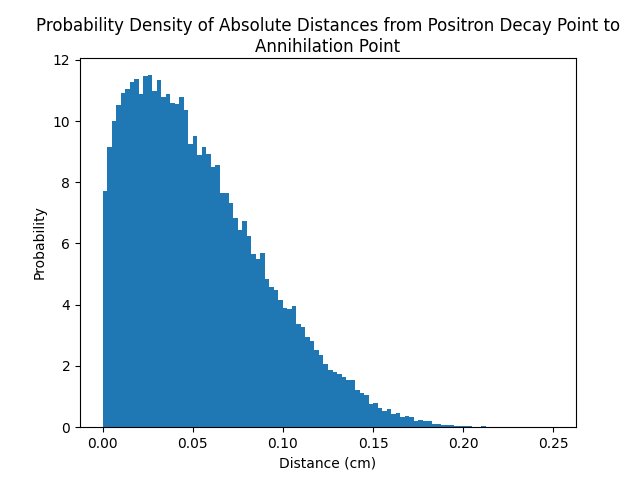
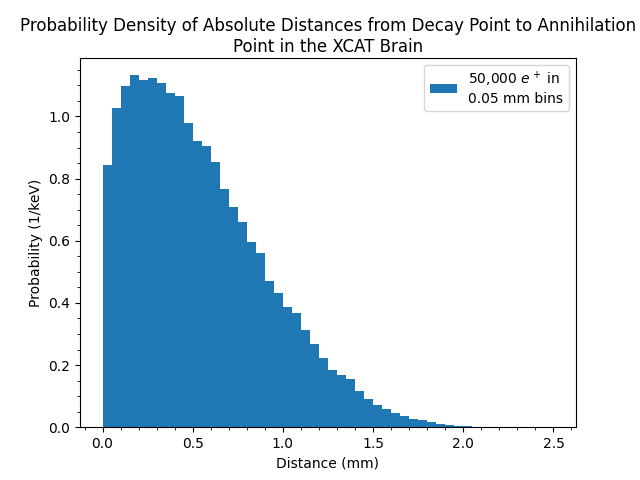
figures

diff --git a/phantoms/xcat_topas_pet_examples/hoffman_brain/annihil_spec.py b/phantoms/xcat_topas_pet_examples/hoffman_brain/annihil_spec.py
@@ -6,6 +6,7 @@ import math
 import pandas as pd
 import numpy as np
 import matplotlib.pyplot as plt
+import matplotlib.ticker as mticker
 
 tup_file = open(os.path.join(ROOT_DIR, 'TruthTuple.phsp'), 'r')
 tup_lines = tup_file.readlines()
@@ -78,53 +79,65 @@ if not difference == 0.0:
 # drops first line of dataframe since it is built on default values
 data = data.drop(0)
 
+# plots figure 1, the energy at decay
 plt.figure(1)
 fig1, ax1 = plt.subplots()
-ax1.hist(data['starte'], range=(0.0, 635.0), bins=2540, density=True)
+ax1.hist(data['starte'], range=(0.0, 635.0), bins=1270, density=True, label='50,000 $e^+$ in\n0.5 keV bins')
 x = np.linspace(0.25, 635.0, 2539)
 def y(x):
     return ((-1.54629e-13)*((635.0-x)**2)*(x**2))/(1.0-math.exp(((18.0*math.pi)/137.0)*math.sqrt((2.0*x)/511.0)))
 y2 = np.vectorize(y)
 ax1.plot(x, y2(x), 'r', label='Input function')
-plt.title('Probability Density of Positron Kinetic Energies at Decay')
+plt.suptitle('Probability Density of Kinetic Energies at Decay in the XCAT Brain', wrap=True)
+plt.ticklabel_format(axis='y', style='sci', scilimits=(0,0))
 plt.legend(loc='upper right')
 plt.xticks()
-plt.ylabel('Probability')
+plt.minorticks_on()
+plt.ylabel('Probability (1/keV)')
 plt.xlim((0.0, 650.0))
 plt.ylim((0.0, 0.004))
 plt.xlabel('Kinetic Energy (keV)')
 plt.savefig('starte.png')
 
+# plots figure 3, histogram of absolute distances from decay point
 plt.figure(3)
 fig3, ax3 = plt.subplots()
-ax3.hist(data["diste"], range=(0.0, 0.25), bins=100, density=True)
-plt.title('Probability Density of Absolute Distances from Positron Decay Point to Annihilation Point', wrap=True)
+ax3.hist(data["diste"].multiply(10.0), range=(0.0, 2.5), bins=50, density=True, label='50,000 $e^+$ in\n0.05 mm bins')
+plt.title('Probability Density of Absolute Distances from Decay Point to Annihilation Point in the XCAT Brain', wrap=True)
+plt.legend(loc='upper right')
 plt.xticks()
-plt.locator_params(axis='y', integer=True)
-plt.ylabel('Probability')
-plt.xlabel('Distance (cm)')
+plt.minorticks_on()
+plt.ylabel('Probability (1/keV)')
+plt.xlabel('Distance (mm)')
 plt.savefig('absdist.png')
 
 plt.figure(4)
 fig4, ax4 = plt.subplots()
-ax4.hist(data["xdist"], range=(-0.2, 0.2), bins=80, density=True)
-plt.title('Probability Density of Distances along X-axis from Positron Decay Point to Annihilation Point', wrap=True)
+ax4.hist(data["xdist"].multiply(10.0), range=(-2.0, 2.0), bins=80, density=True, label='50,000 $e^+$ in\n0.05 mm bins')
+plt.title('Probability Density of Distances along X-axis from Decay Point to Annihilation Point in the XCAT Brain', wrap=True)
+plt.legend(loc='upper right')
 plt.xticks()
 plt.yticks()
-plt.locator_params(axis='y', integer=True)
-plt.ylabel('Probability')
-plt.xlabel('Distance (cm)')
+plt.minorticks_on()
+plt.ylabel('Probability (1/keV)')
+plt.xlabel('Distance (mm)')
 plt.savefig('xdist.png')
 
 plt.figure(2)
 fig2, ax2 = plt.subplots()
-ax2.hist(data.replace(0.0, np.NaN)['finale'], range=(0.0, 560.0), bins=35)
-plt.title('Distribution of Non-zero Kinetic Energies at Annihilation Point')
+ax2.hist(data['finale'], range=(0.0, 560.0), bins=56, label='50,000 $e^+$ in\n10 keV bins', density=True)
+#y_vals = ax2.get_yticks()
+#ax2.yaxis.set_major_locator(mticker.FixedLocator(y_vals))
+#ax2.set_yticklabels([f'{x:.2f}'.format(x * 10.0) for x in y_vals])
+plt.title('Probability Density of Kinetic Energies at Annihilation Point in the XCAT Brain', wrap=True)
+plt.legend(loc='upper right')
+plt.yscale('log')
 plt.xticks()
-plt.locator_params(axis='y', integer=True)
-plt.ylabel('Frequency (# of positrons)')
+plt.minorticks_on()
+plt.ylabel('Probability (1/keV)')
+#plt.ylabel('Probability (per 10 keV bin)')
 plt.xlabel('Kinetic Energy (keV)')
-plt.savefig('finale.png')
+plt.savefig('finale_log.png')
 
 f = open('README_annihilation_spectrum.txt', 'w')
 
